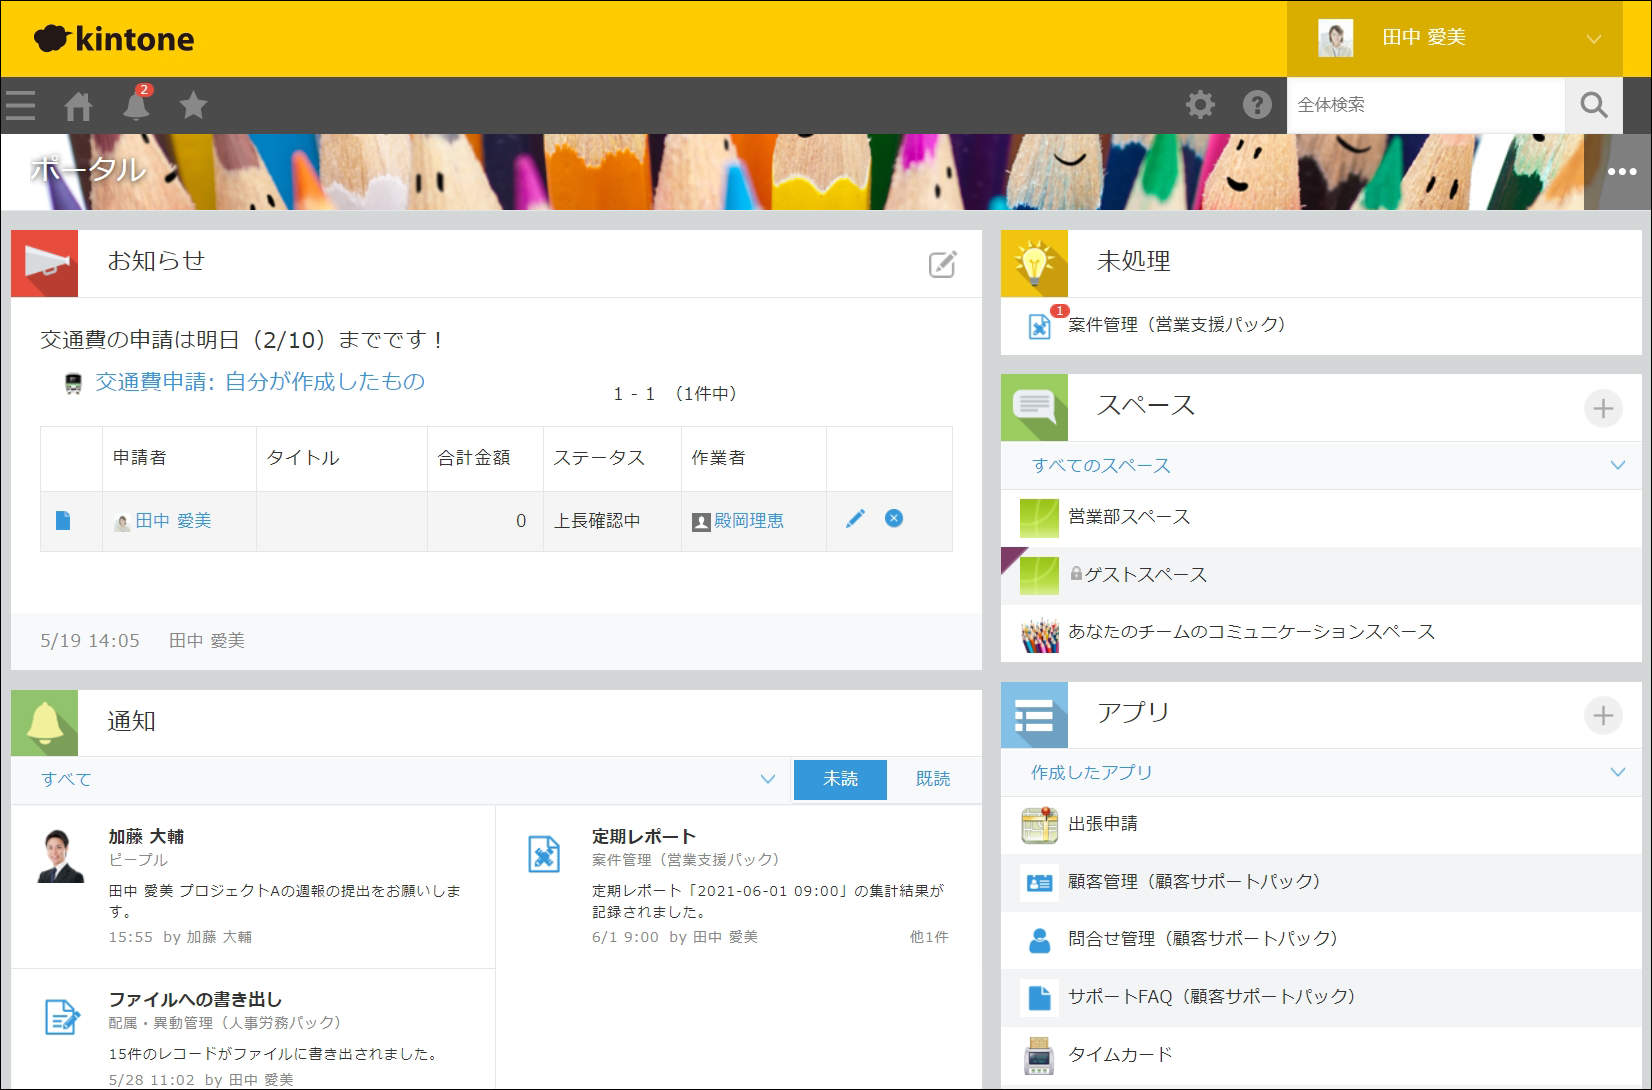
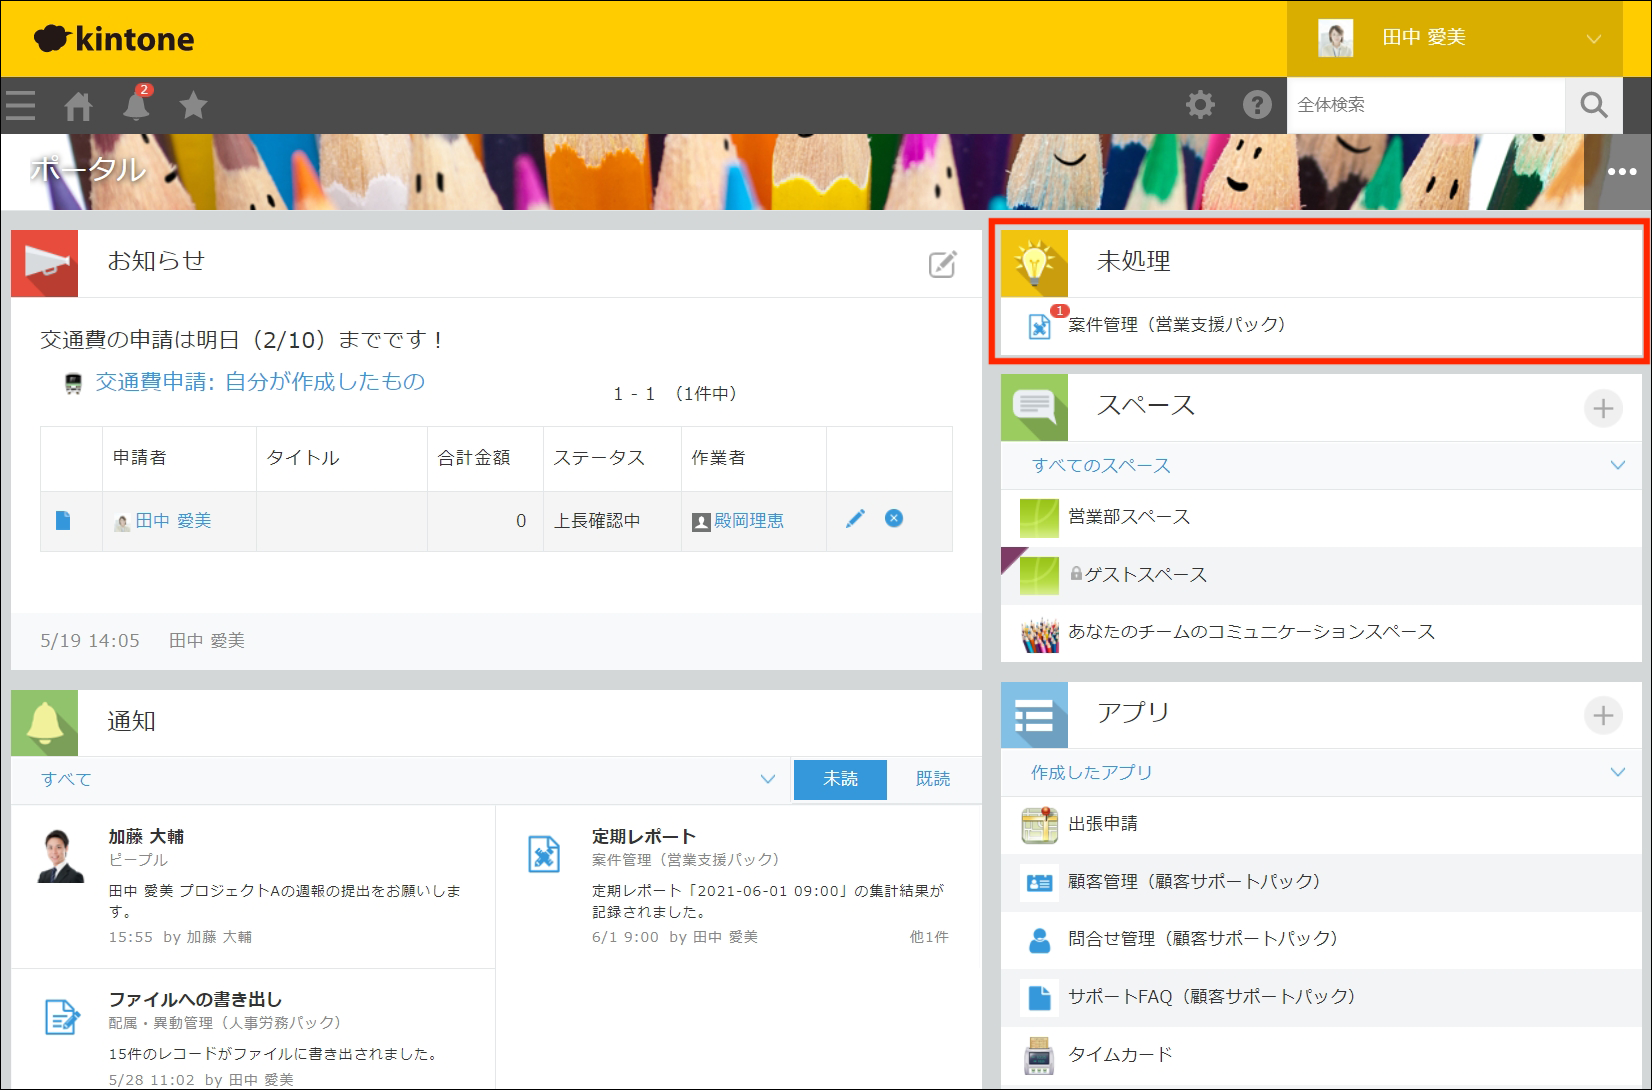
feat: ブログ記事10「kintoneで今日やることをポータルに表示する方法」追加
未処理一覧・通知一覧・リマインダー通知の活用術を解説する機能記事。
kintone標準機能の設定手順をスクリーンショット付きで紹介。

Changed region(s): [[0.5866, 0.1872, 1.0, 0.3431]]

diff --git a/sites/blog/articles/10_kintone-kyou-yaru-koto.md b/sites/blog/articles/10_kintone-kyou-yaru-koto.md
@@ -1,0 +1,163 @@
+---
+title: "kintoneで\"今日やること\"をポータルに表示する方法｜未処理・通知・リマインダーの活用術"
+slug: "kintone-kyou-yaru-koto"
+description: "kintoneのポータルで「今日やること」をすぐ把握する方法を解説。未処理一覧・通知一覧・リマインダー通知の設定手順と、見逃しを減らすための活用のコツを紹介します。"
+publishedAt: "2026-02-27"
+category: "kinou"
+tags: ["kintone", "今日やること", "ポータル", "未処理", "通知", "タスク管理", "プロセス管理"]
+ogImage: "/images/portal/kintone_portal-default.png"
+articleNumber: 10
+faq:
+  - question: "kintoneのポータルで今日やるべきタスクを確認する方法は？"
+    answer: "kintone標準の「未処理一覧」「通知一覧」「リマインダー通知」の3つを活用できます。未処理一覧はプロセス管理で自分が作業者のレコードを表示し、リマインダーは期限日に自動通知してくれます。"
+  - question: "kintoneの未処理一覧はプロセス管理なしでも使えますか？"
+    answer: "いいえ、未処理一覧はプロセス管理を設定しているアプリのみが対象です。プロセス管理が無効のアプリのタスクは表示されません。"
+  - question: "kintoneのリマインダー通知は何件まで設定できますか？"
+    answer: "1アプリにつき最大10件のリマインダー条件を設定できます。対象レコードは1条件あたり最大500件です。"
+---
+
+# kintoneで"今日やること"をポータルに表示する方法｜未処理・通知・リマインダーの活用術
+
+「kintoneを開いたけど、今日どのアプリから手をつければいいかわからない」「承認依頼が来ていたのに気づかず、対応が遅れてしまった」——毎日の業務でこんな経験はありませんか？
+
+実はkintoneには、ポータルで「今日やること」を把握するための標準機能がいくつも用意されています。この記事では、**未処理一覧・通知一覧・リマインダー通知の設定方法と活用のコツ**をご紹介します。
+
+---
+
+## この記事でわかること
+
+- kintoneの「未処理一覧」で自分が処理すべきタスクを確認する方法
+- 「通知一覧」と「リマインダー通知」で期限や更新を見逃さないコツ
+- 標準機能をもっと使いやすくするための設定のポイント
+
+---
+
+## 方法①：「未処理一覧」で自分のタスクを確認する
+
+kintoneのポータルには**未処理一覧**を表示できます。下の画像のように、ポータル右上に「未処理」エリアが表示され、**プロセス管理**で自分が作業者になっているレコードの件数がアプリごとに並びます。
+
+![kintoneのデフォルトポータル画面。右上に「未処理」エリアが表示され、納品先管理など自分が処理すべきレコードの件数がアプリごとに確認できる](/images/portal/kintone_portal-default.png)
+
+### 未処理一覧の表示手順
+
+まず、ポータル右上の「…」メニューから**「表示中のポータルの設定」**をクリックします。
+
+![kintoneポータル右上のメニューを開き、「表示中のポータルの設定」を選択する画面](/images/portal/kintone_portal-settings-menu.png)
+
+「ポータルの設定」ダイアログが表示されたら、「ポータルに表示するコンテンツ」の**「未処理」にチェック**を入れて保存します。
+
+![ポータルの設定画面。「ポータルに表示するコンテンツ」で「未処理」にチェックを入れて保存する](/images/portal/kintone_unprocessed-setting.png)
+
+保存するとポータル右サイドバーに未処理件数が表示されます。アプリ名をクリックすれば、そのアプリの「自分が処理すべきレコード」に直接アクセスできます。
+
+> **注意**: ポータルの設定を変更できるのは、**kintoneシステム管理者またはcybozu.com共通管理者**のみです。一般ユーザーの方は管理者に設定を依頼してください。
+
+### 活用のポイント
+
+未処理一覧に表示されるには、**アプリでプロセス管理を有効にする必要があります**。下の画像のように、アプリの設定画面で「プロセス管理を有効にする」にチェックを入れ、ステータスとフローを設定します。
+
+![kintoneのプロセス管理設定画面。「プロセス管理を有効にする」にチェックを入れ、下書き→提出済み→受注済み/失注のステータスフローを設定している](/images/portal/kintone_process-management.png)
+
+「申請 → 承認 → 完了」のような簡単なフローでも、プロセス管理を設定しておけば自動的に「次に処理すべき案件」がポータルに並びます。逆に、プロセス管理を使っていないアプリの作業は未処理一覧に現れません。タスク管理として活用したいアプリがあれば、プロセス管理の設定を検討してみてください。
+
+なお、kintoneモバイルアプリでも未処理一覧は確認できます。外出先で「自分宛ての承認依頼が何件あるか」をサッと確認したいときに便利です。
+
+---
+
+## 方法②：「通知一覧」で更新を見逃さない
+
+ポータルの左下には**通知一覧**が表示されます。レコードの更新・コメントの追加・ステータス変更など、自分に関係するアクションが時系列で並ぶエリアです。
+
+![kintoneのポータル画面。左下の「通知」エリアが赤枠でハイライトされ、レコード更新やコメント追加などの通知が時系列で一覧表示されている](/images/portal/kintone_portal-notification.png)
+
+### 通知の確認方法
+
+- **ベルアイコン**: 画面上部に未読件数がバッジ表示される
+- **ポータル**: 「ポータルの設定」で「通知」にチェックを入れると、ポータル上にも一覧表示される
+
+### 通知の条件設定で精度を上げる
+
+通知が多すぎると逆にノイズになります。kintoneでは、アプリごとに**通知の条件**を細かく設定できます。
+
+#### レコードの条件通知
+
+「ステータスが"提出済み"に変わったとき」「特定のフィールドが更新されたとき」など、条件を満たしたときだけ指定した相手に通知を飛ばせます。下の画像では、ステータスが「提出済み」になったタイミングでユーザーに「【新規見積】提出しました」と通知する設定例です。
+
+![kintoneのレコードの条件通知設定画面。ステータスが「提出済み」のときにユーザーへ「【新規見積】提出しました」と通知する設定例](/images/portal/kintone_record-condition-notification.png)
+
+#### 通知一覧の絞り込み
+
+通知一覧では「自分宛」「あとで読む」「すべて」でフィルターでき、さらに「未読」「既読」をタブで切り替えられます。
+
+![kintoneの通知一覧画面。「自分宛」「あとで読む」「すべて」の絞り込みと、「未読」「既読」の切り替えで通知を管理できる](/images/portal/kintone_notification-list.png)
+
+「絞り込みを作成する」をクリックすると、さらに細かい条件を設定できます。下の画像では、通知の種類を「自分宛」に絞り、場所を「見積書」アプリに限定した「【必見】通知一覧」という絞り込みを作成しています。
+
+![kintoneの通知の絞り込み設定画面。「自分宛」の通知を「見積書」アプリに限定して表示する絞り込み条件を作成している](/images/portal/kintone_notification-filter.png)
+
+不要な通知を減らすことで、**本当に対応が必要な通知だけが目に入る**状態を作れます。「通知が多すぎて全部無視してしまう」という状態こそが一番危険です。まずは各アプリの通知設定を見直してみてください。
+
+---
+
+## 方法③：「リマインダー通知」で期限を自動管理する
+
+日付・日時フィールドの値を基準に、**指定したタイミングで通知を自動送信**してくれるのがリマインダー通知です。
+
+### 設定例
+
+| 業務 | 基準フィールド | タイミング | 通知先 |
+|------|-------------|-----------|--------|
+| 契約更新 | 契約終了日 | 1ヶ月前 | 営業担当 |
+| タスク期限 | 期限日 | 当日 | 作業者 |
+| 定期点検 | 次回点検日 | 1週間前 | 管理者 |
+
+### 設定手順
+
+アプリの設定画面を開き、「設定」タブの「通知」セクションにある**「リマインダーの条件通知」**をクリックします。
+
+![kintoneアプリの設定画面。「通知」セクションの「リマインダーの条件通知」が赤枠でハイライトされている](/images/portal/kintone_reminder-settings-menu.png)
+
+リマインダーの設定画面では、基準となる日付フィールド・通知タイミング・通知先・通知条件を指定します。下の画像では、「見積有効期限の5日前・12:00に担当者へ通知し、ステータスが提出済みのレコードだけを対象にする」という設定例です。
+
+![リマインダーの条件通知設定画面。見積有効期限の5日前に担当者へ通知し、ステータスが提出済みのレコードを対象にする設定例](/images/portal/kintone_reminder-condition.png)
+
+1アプリにつき**最大10件**のリマインダー条件を設定できます。対象レコードは1条件あたり最大500件です。
+
+リマインダーで送信された通知は、方法②で紹介した**通知一覧と同じ場所**に表示されます。ポータルの通知やベルアイコンから確認できるので、普段の通知チェックの延長で期限管理ができます。
+
+「毎日ポータルを開かなくても、期限が近づいたら教えてくれる」——リマインダー通知を設定しておけば、タスクの抜け漏れを大幅に減らせます。
+
+特に「契約更新」や「定期点検」のように**繰り返し発生するタスク**には、リマインダーが非常に有効です。カレンダーアプリと二重管理する必要がなくなり、kintoneだけで期限管理が完結します。
+
+---
+
+## 標準機能をもっと使いやすくするコツ
+
+### ポータルの表示設定を見直す
+
+「未処理」「通知」「アプリ」の3つは、ポータルの設定でそれぞれ表示/非表示を切り替えられます。すべてオンになっていないと、せっかくの情報が表示されません。まずは3つともチェックが入っているか確認してみてください。
+
+### プロセス管理を積極的に使う
+
+未処理一覧はプロセス管理とセットで機能します。「申請 → 承認 → 完了」のような簡単なフローでも、プロセス管理を設定しておけば**自分が処理すべきレコードがポータルに自動表示**されます。
+
+「承認待ちの申請を見落とした」というミスを防ぐには、プロセス管理の活用が最も効果的です。設定方法は[cybozu developer network](https://cybozu.dev/ja/kintone/docs/overview/process-management/)で詳しく解説されています。
+
+### アプリが増えてきたら整理を検討する
+
+アプリが30個、50個と増えてくると、ポータル全体が縦長になり、未処理や通知のエリアまでスクロールが必要になることがあります。
+
+この段階になったら、[スペースを部署ごとに分ける](/articles/kintone-space-kanri/)、あるいはポータルのカスタマイズを検討するタイミングです。ソトバコポータルのような外部サービスを使えば、アプリをタブで分類して[部署ごとに見せ分ける](/articles/kintone-app-misewake/)こともできます。
+
+---
+
+## まとめ
+
+- **未処理一覧**で、プロセス管理が設定されたアプリの「自分が処理すべきレコード」を確認できる
+- **通知一覧**と**通知条件の設定**で、必要な更新だけを見逃さない仕組みを作れる
+- **リマインダー通知**を設定すれば、期限が近づいたときに自動で通知が届く
+- これらの標準機能を組み合わせれば、**毎朝kintoneを開くだけで「今日やること」が把握できる**ポータルになる
+
+まずは「ポータルの設定」で未処理・通知の表示を有効にすることから始めてみてください。
+
+**[kintoneポータルの公式ヘルプを確認する →](https://jp.kintone.help/k/ja/portal)**
